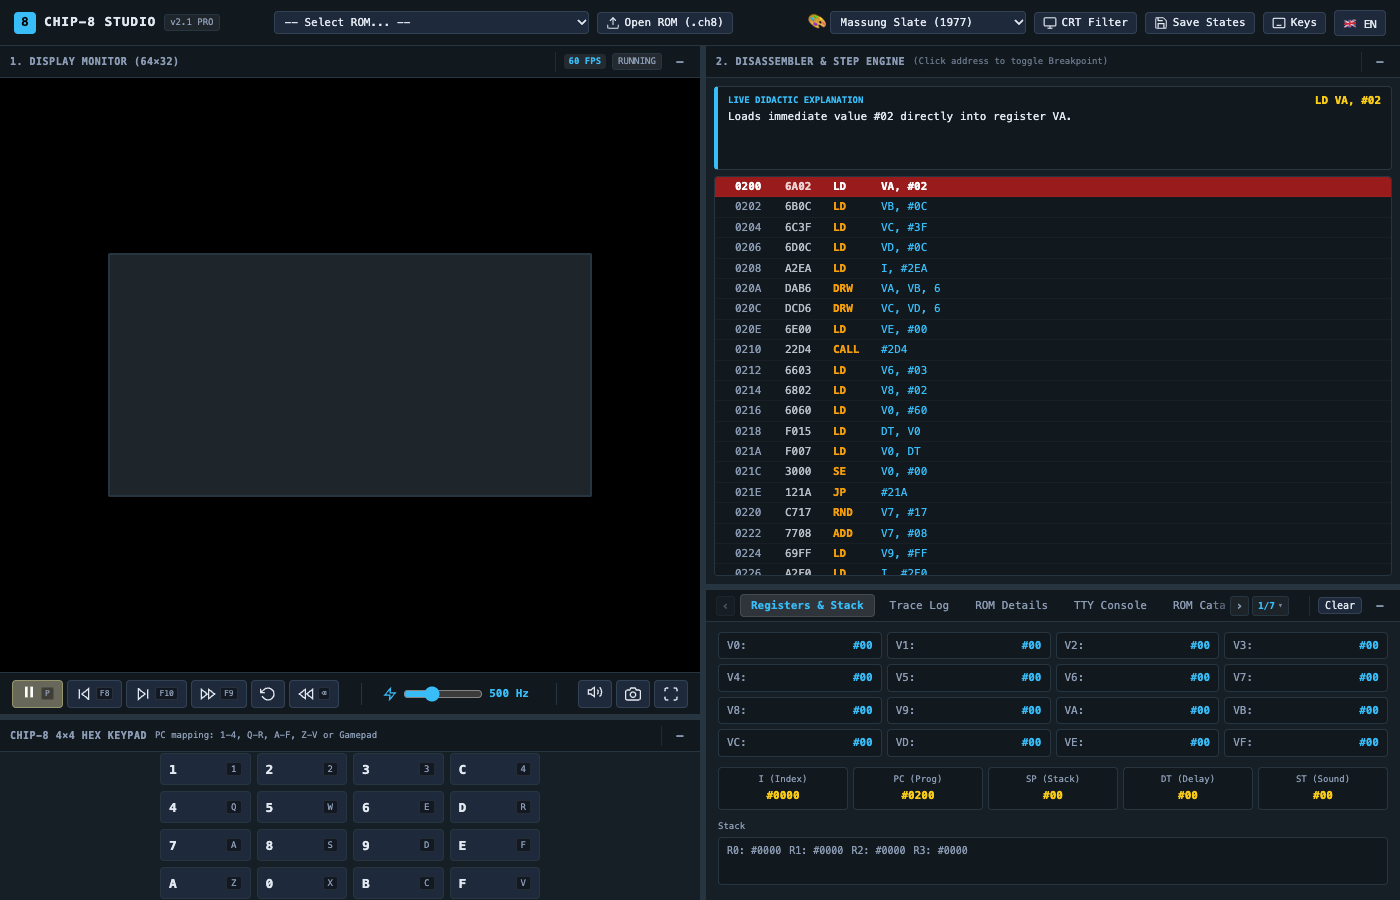
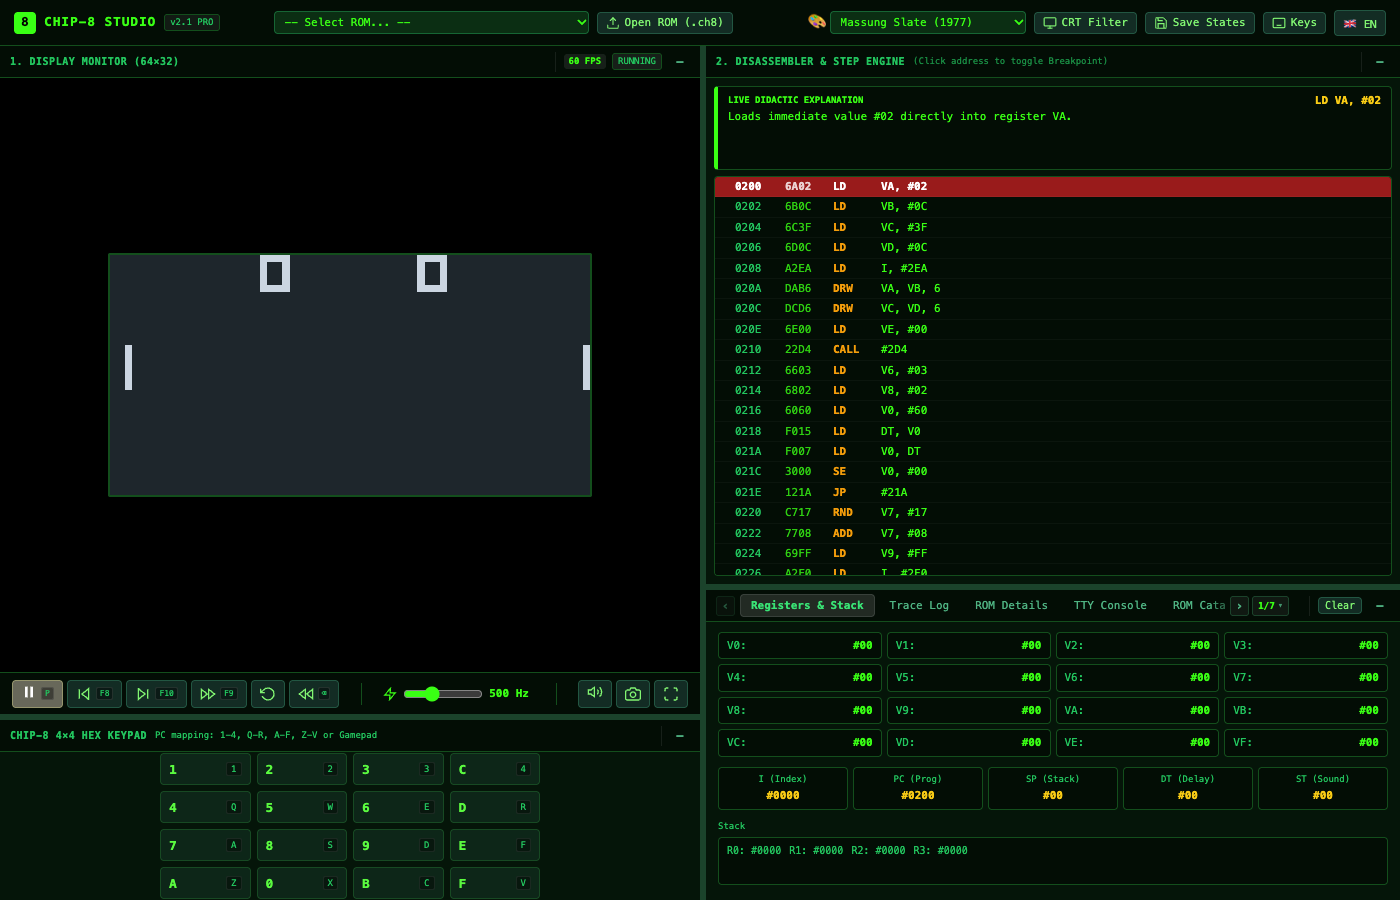
docs: refresh showcase screenshots with live running games and NES theme

diff --git a/js/app.js b/js/app.js
@@ -105,7 +105,7 @@ export class App {
     const urlParams = new URLSearchParams(window.location.search);
     const requestedTheme = urlParams.get('theme');
     if (requestedTheme && this.themeManager) {
-      this.themeManager.setTheme(requestedTheme);
+      this.themeManager.applyTheme(requestedTheme);
       const themeSelect = document.getElementById('theme-select');
       if (themeSelect) themeSelect.value = requestedTheme;
     }
